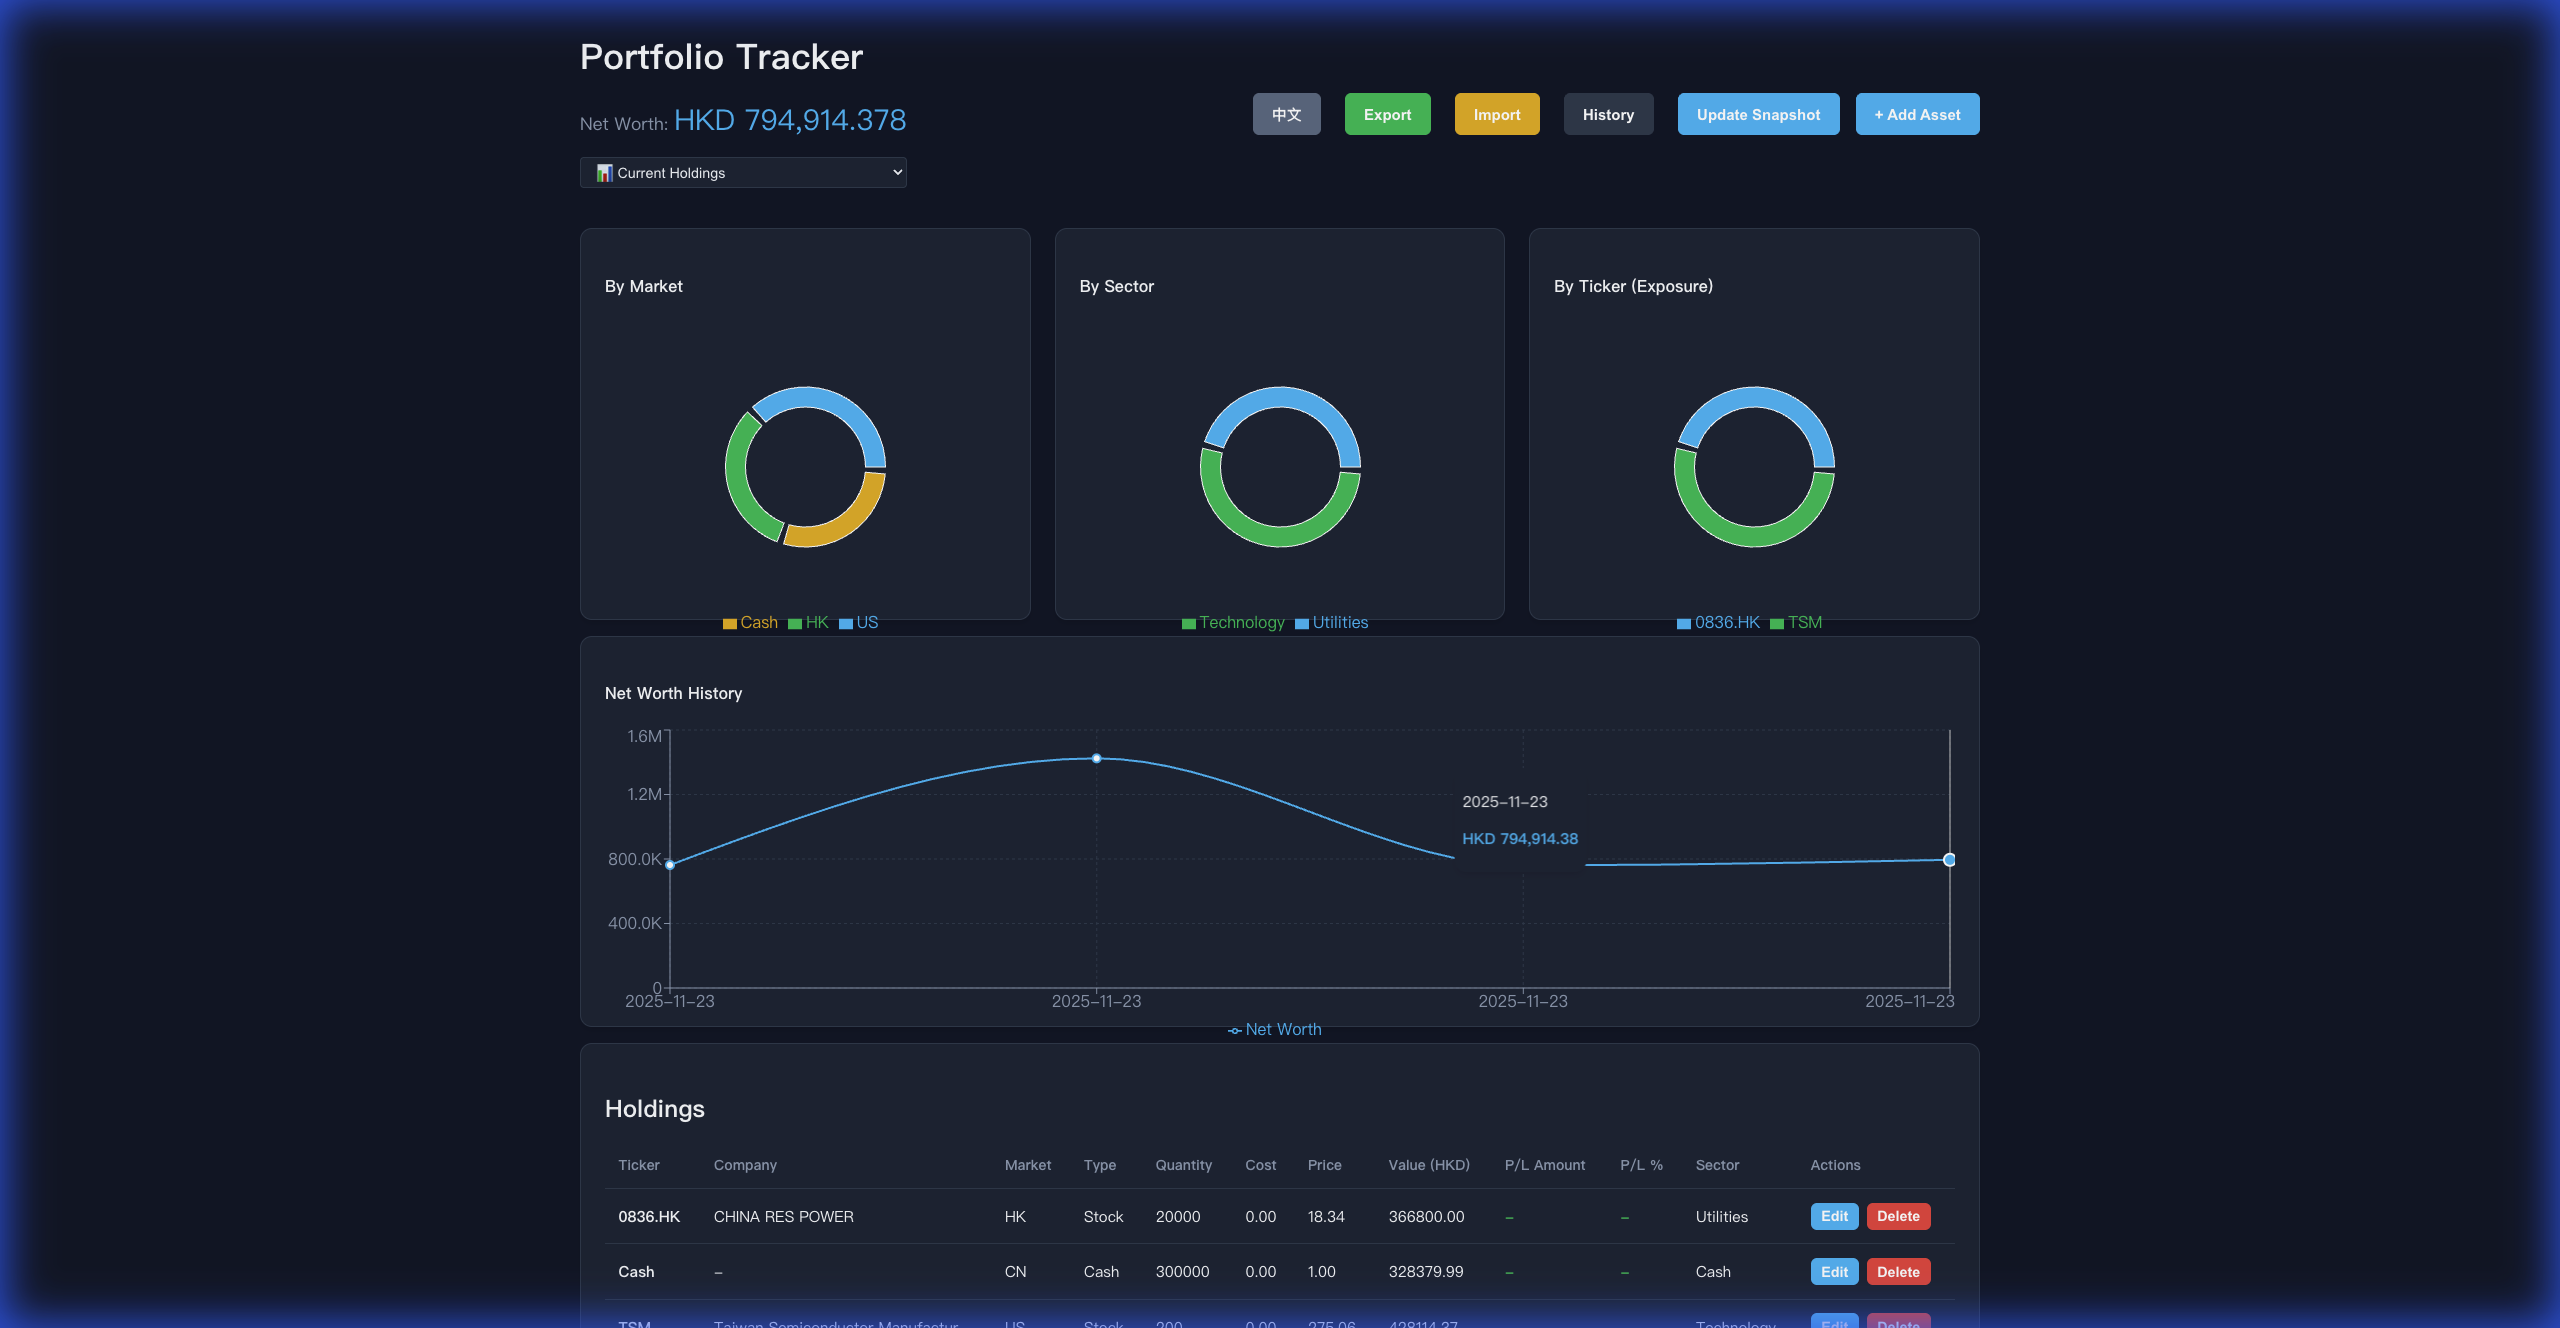
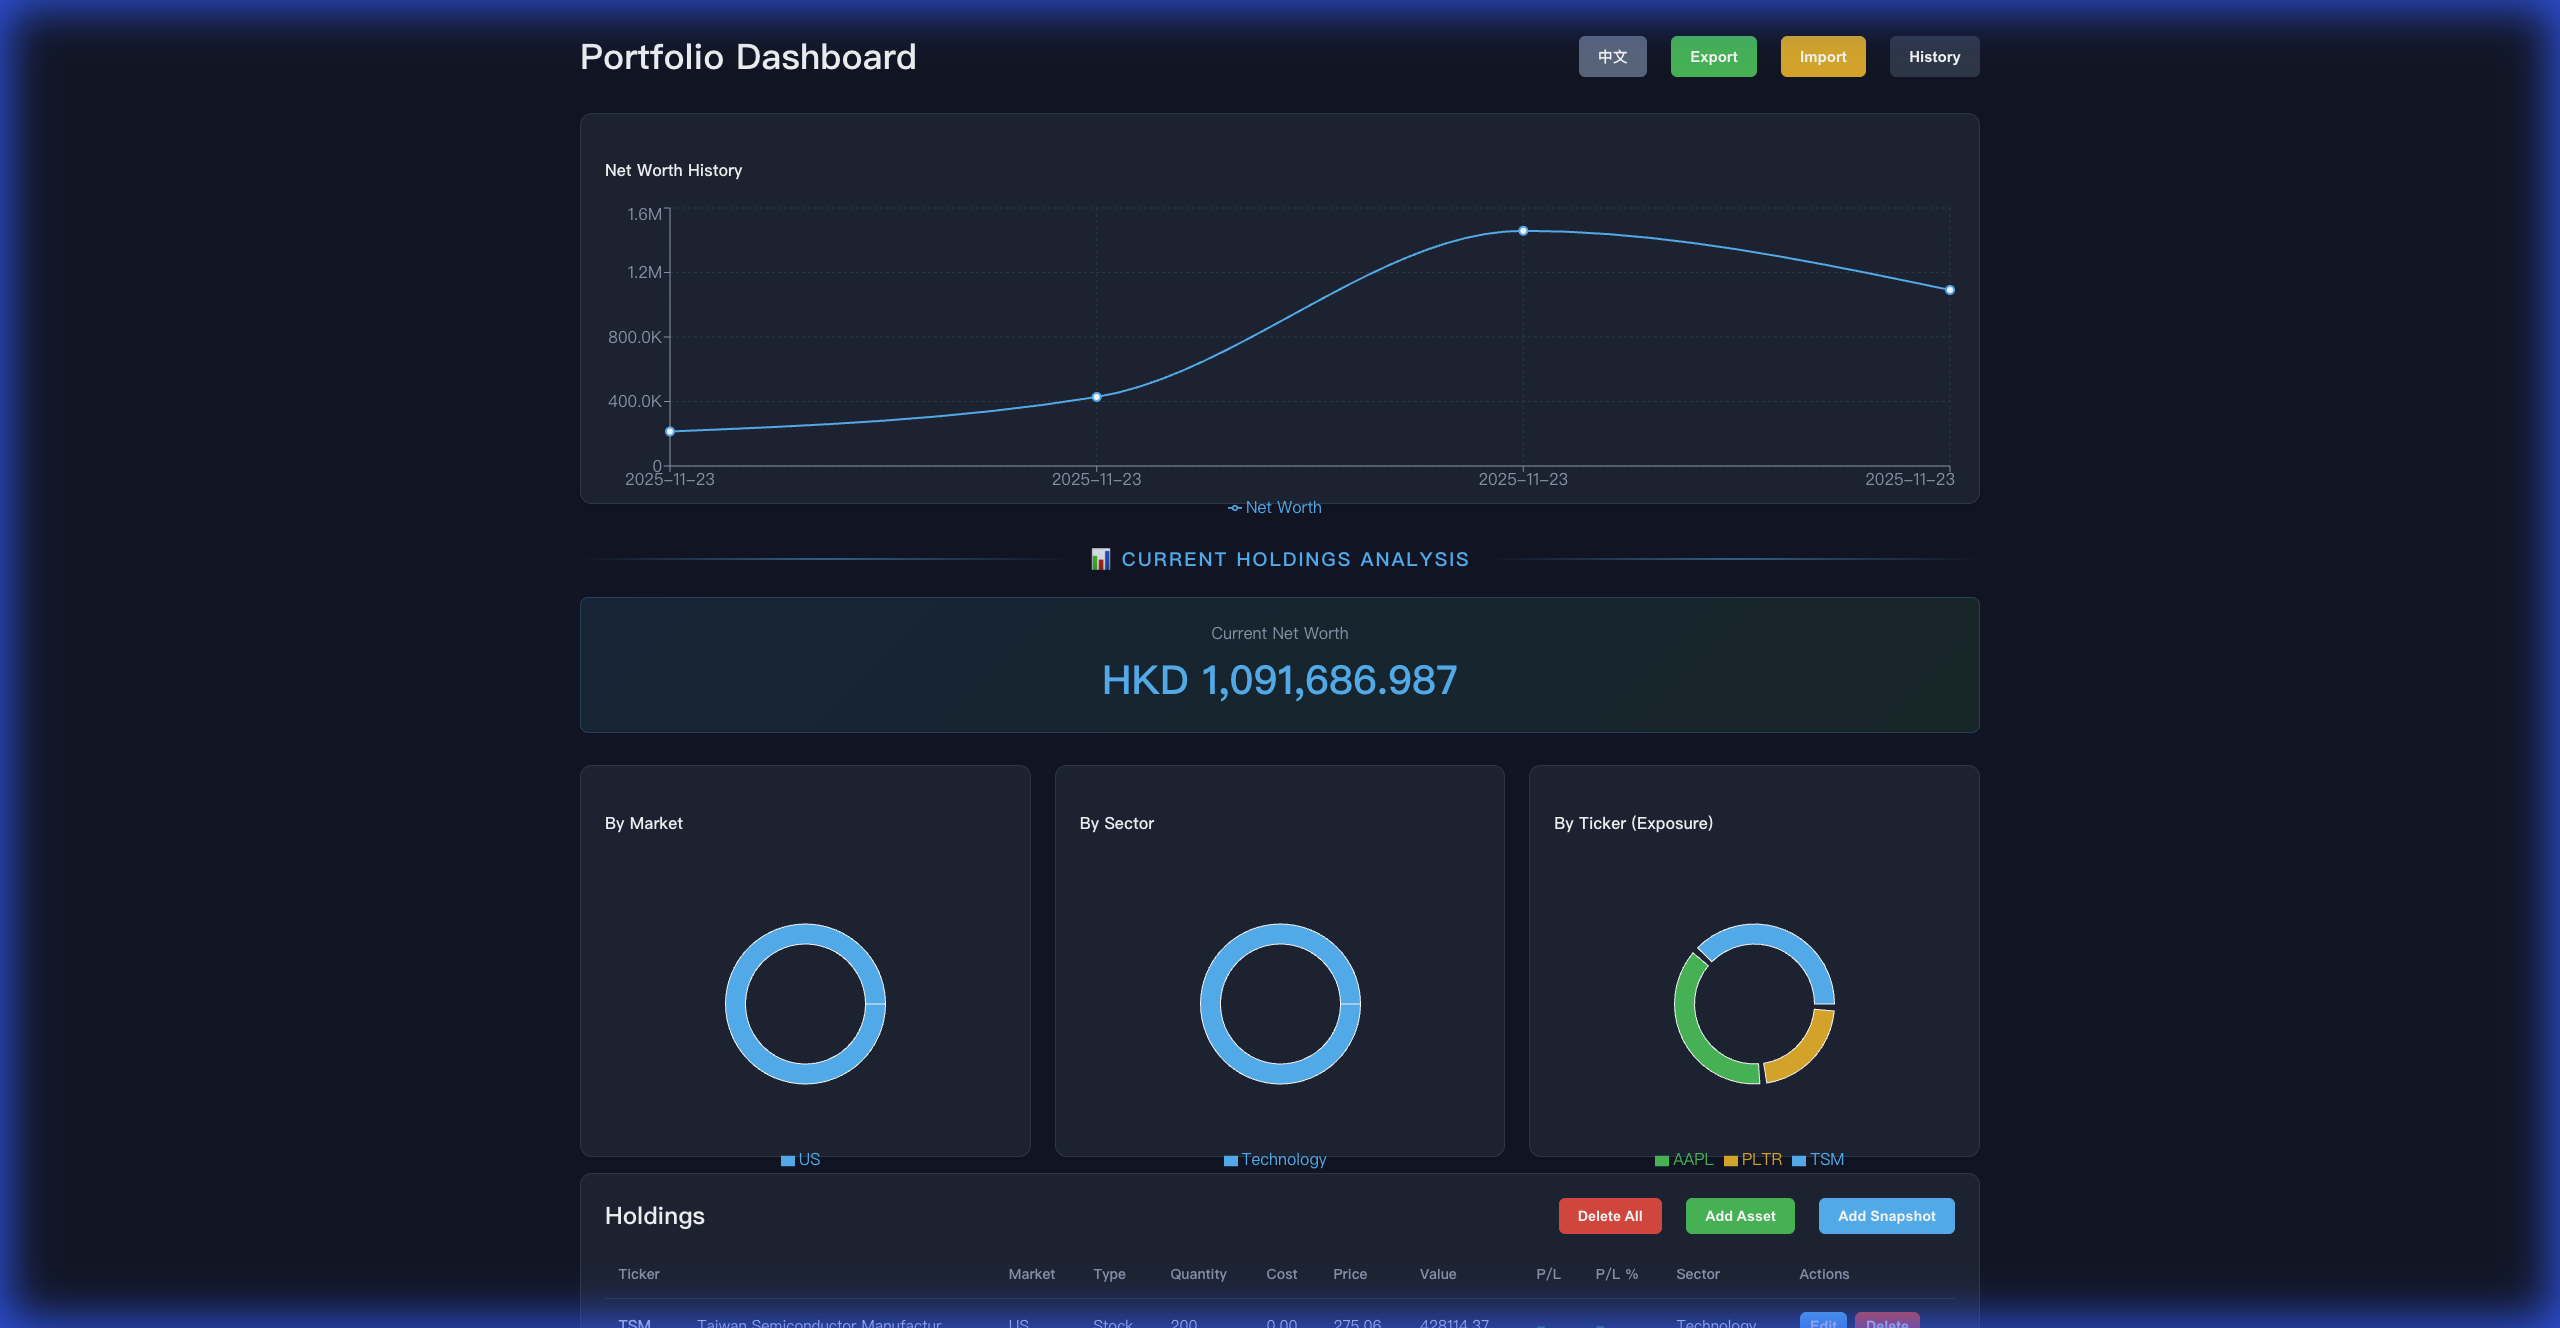
v0.2: Major UI/UX refinements and feature improvements
- Reorganized dashboard layout (history chart on top, clearer visual hierarchy)
- Moved 'Add Asset' and 'Add Snapshot' buttons to Holdings section
- Enhanced import modal with two clear strategies (Update Current / Full Overwrite)
- Simplified import logic: 'Update Current' only replaces holdings, does NOT auto-create snapshots
- Added 'Delete All' button for bulk operations
- Improved 'Back to Current' button styling and placement
- History list now displays newest-first (reverse chronological order)
- Updated button labels for clarity ('Add Snapshot' instead of 'Update Snapshot')
- Enhanced Net Worth display with gradient card styling
- Added visual divider between history chart and holdings analysis sections
- Updated README with comprehensive user guide and feature documentation
- Fixed import error (Pydantic validation for snapshot holdings)
- Bilingual improvements (Chinese/English) across all new features

diff --git a/README.md b/README.md
@@ -20,14 +20,11 @@ A personal investment portfolio tracking application designed to manage and visu
 ### Main Dashboard
 ![Dashboard Overview](docs/images/dashboard_en.png)
 
-**Layout:**
 1. **Net Worth History Chart** - Time-series visualization at the top
 2. **Current Net Worth Display** - Large, centered card showing total value
 3. **Distribution Charts** - Three pie charts (Market / Sector / Ticker)
 4. **Holdings List** - Detailed table with edit/delete actions
 
-### Asset Management
-![Add Asset Form](docs/images/asset_form.png)
 
 ### Historical Data
 ![History Chart with Tooltips](docs/images/history_chart.png)
